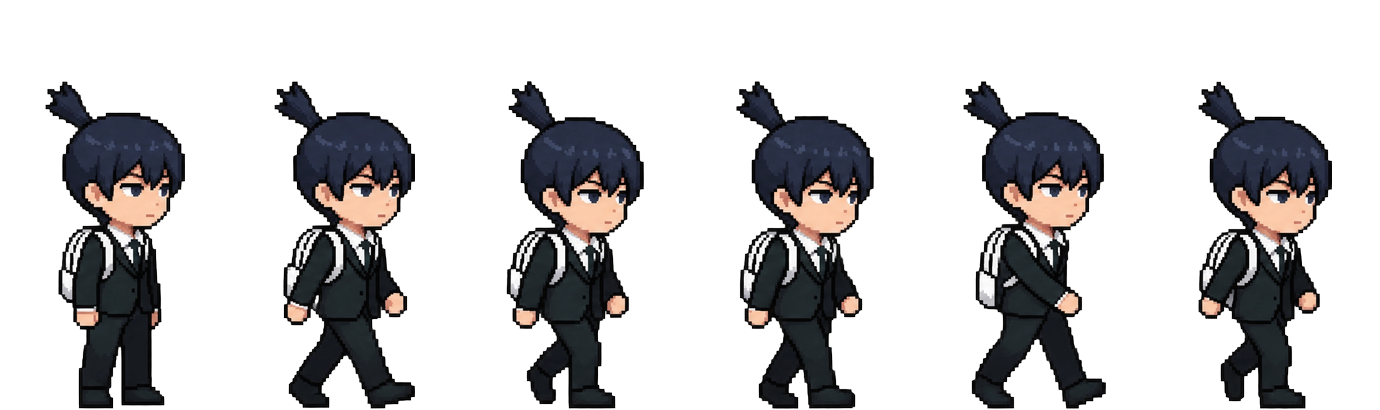
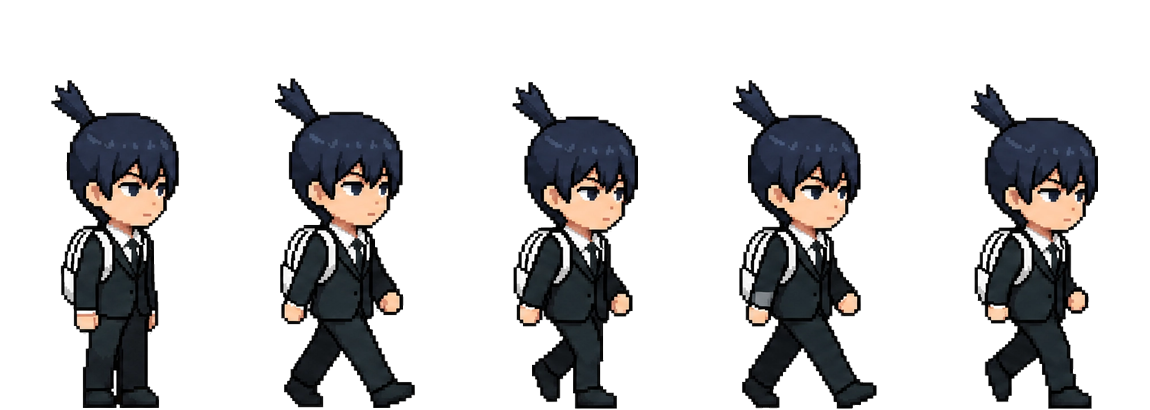
fix(player): 重新生成角色精灵表并修复走动交叉腿问题
- 备份原有精灵表与左右图集为 *_backup.png
- 采用全新生成的 5 格序列重新提取透明图集并统一地面基准线
- 配置 1 帧待机 + 4 帧大步走动循环，帧率设为 6fps

diff --git a/js/scenes/BootScene.js b/js/scenes/BootScene.js
@@ -9,11 +9,11 @@ export default class BootScene extends Phaser.Scene {
 
     preload() {
         // --- 只加载 MenuScene 和骨骼必需的极少量资源 ---
-        this.load.spritesheet('player_r', 'js/Photo/Qiu/Qiu_R.png', {
+        this.load.spritesheet('player_r', 'js/Photo/Qiu/Qiu_R.png?v=3', {
             frameWidth: 230,
             frameHeight: 410,
         });
-        this.load.spritesheet('player_l', 'js/Photo/Qiu/Qiu_L.png', {
+        this.load.spritesheet('player_l', 'js/Photo/Qiu/Qiu_L.png?v=3', {
             frameWidth: 230,
             frameHeight: 410,
         });
@@ -22,7 +22,7 @@ export default class BootScene extends Phaser.Scene {
 
     create() {
         // --- 1. 角色动画注册 ---
-        // 右方向：帧 0 = 站立，帧 1-5 = 走动
+        // 右方向：帧 0 = 站立，帧 1-4 = 走动（4 帧自然大步走）
         this.anims.create({
             key: 'idle_r',
             frames: this.anims.generateFrameNumbers('player_r', { start: 0, end: 0 }),
@@ -31,11 +31,11 @@ export default class BootScene extends Phaser.Scene {
         });
         this.anims.create({
             key: 'walk_r',
-            frames: this.anims.generateFrameNumbers('player_r', { start: 1, end: 5 }),
+            frames: this.anims.generateFrameNumbers('player_r', { start: 1, end: 4 }),
             frameRate: 6,
             repeat: -1,
         });
-        // 左方向：帧 0 = 站立，帧 1-5 = 走动
+        // 左方向：帧 0 = 站立，帧 1-4 = 走动（4 帧自然大步走）
         this.anims.create({
             key: 'idle_l',
             frames: this.anims.generateFrameNumbers('player_l', { start: 0, end: 0 }),
@@ -44,7 +44,7 @@ export default class BootScene extends Phaser.Scene {
         });
         this.anims.create({
             key: 'walk_l',
-            frames: this.anims.generateFrameNumbers('player_l', { start: 1, end: 5 }),
+            frames: this.anims.generateFrameNumbers('player_l', { start: 1, end: 4 }),
             frameRate: 6,
             repeat: -1,
         });
